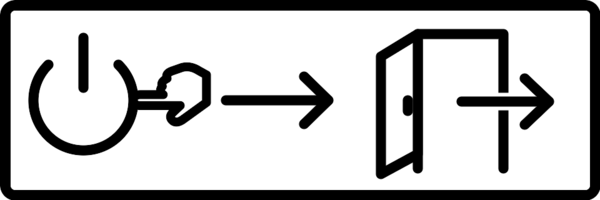
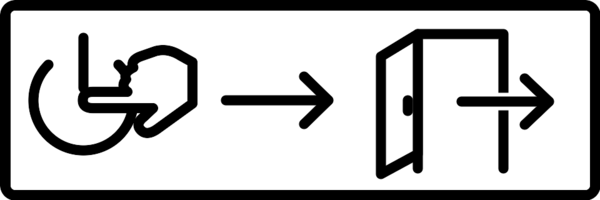
Keep dashboard redraw intact after Wi-Fi failures
Leave LAST pointing to the last dashboard so cancelling the exit prompt repaints the whole overlay. Enlarge the pressing finger, document the acknowledgment, and inline host export commands in the artwork notes.

Verified all 15 network-recovery cases and inspected the 600x200 prompt. Confirmed the arrow, door, acknowledgment PNG and required PNG formats are unchanged.

Changed region(s): [[0.12, 0.21, 0.36, 0.69]]

diff --git a/images/exit-prompts/README.md b/images/exit-prompts/README.md
@@ -1,12 +1,10 @@
 # Wordless exit prompts
 
-Original SVG shapes, with no fonts or third-party icons. The owner requested
-public domain artwork: these SVGs and their exported PNGs are dedicated to the
-public domain under [CC0 1.0](https://creativecommons.org/publicdomain/zero/1.0/).
+The shapes are original, use no fonts or third-party icons, and are dedicated to the public domain under [CC0 1.0](https://creativecommons.org/publicdomain/zero/1.0/).
 
-Run `sh tools/export-exit-prompts.sh` with ImageMagick on the host. Each 960×320
-SVG exports to a 600×200, 8-bit grayscale PNG without alpha or interlacing.
-The 16 px source strokes become 10 px strokes in the PNGs.
+Run these ImageMagick commands from the repository root on the host. Each 960×320 SVG exports to a 600×200, 8-bit greyscale PNG without alpha or interlacing. The 16 px source strokes become 10 px strokes in the PNGs.
 
-`zip_example/exit-prompt.png` and `zip_example/exit-confirmed.png` ship with the
-scripts, including in release ZIPs. SVGs and the exporter are host-only sources.
+```sh
+magick -background white images/exit-prompts/power.svg -resize 600x200 -alpha remove -alpha off -colorspace Gray -depth 8 -strip -interlace none -define png:color-type=0 zip_example/exit-prompt.png
+magick -background white images/exit-prompts/exiting.svg -resize 600x200 -alpha remove -alpha off -colorspace Gray -depth 8 -strip -interlace none -define png:color-type=0 zip_example/exit-confirmed.png
+```

diff --git a/README.md b/README.md
@@ -230,7 +230,7 @@ Launch KUAL from your Kindle library.
 
 Your Kindle is now successfully running TRMNL!
 
-When you wake the Kindle early with the power button, TRMNL shows a wordless "press power to exit" picture for ten seconds. Press the power button again while it is shown and TRMNL exits and restores the Kindle UI. Without confirmation, TRMNL redraws the last image and continues refreshing; devices without a unique power-key input skip the prompt. Returning to the Kindle UI may show a startup progress bar without rebooting the device.
+When you wake the Kindle early with the power button, TRMNL shows a wordless "press power to exit" picture for ten seconds. Press the power button again while it is shown and TRMNL shows a check mark picture, then exits and restores the Kindle UI. Without confirmation, TRMNL redraws the last image and continues refreshing; devices without a unique power-key input skip the prompt. Returning to the Kindle UI may show a startup progress bar without rebooting the device.
 
 <kdb><img src="https://github.com/usetrmnl/trmnl-kindle/blob/main/images/trmnl-kindle-alpha-release.jpeg" width="650px"></kdb>
 
